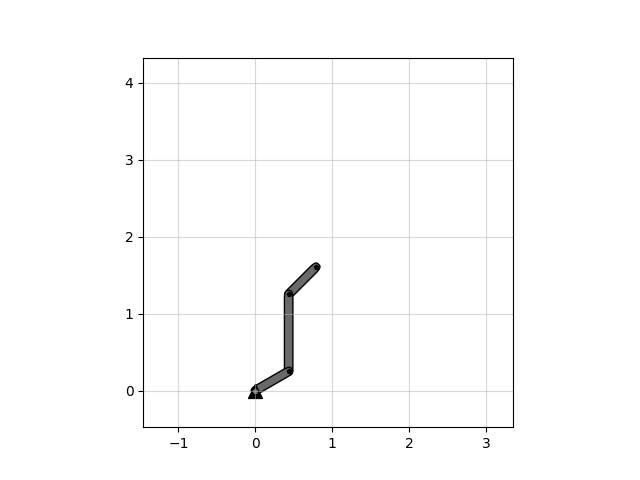
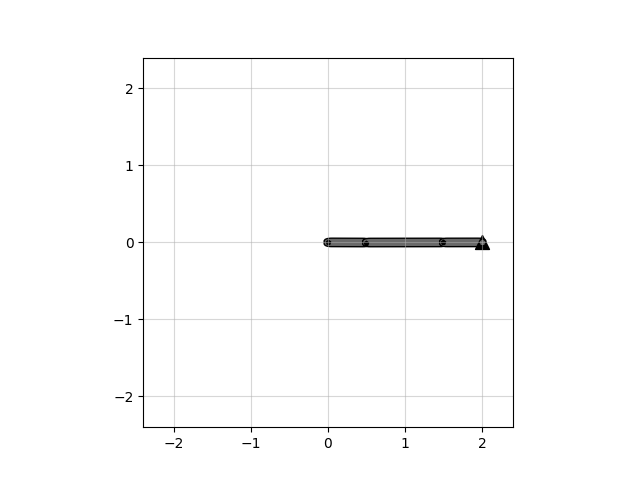
work on hw4

diff --git a/ws/hw4/ManipulatorSkeleton.cpp b/ws/hw4/ManipulatorSkeleton.cpp
@@ -6,6 +6,12 @@ MyManipulator2D::MyManipulator2D()
     : LinkManipulator2D({0.5, 1.0, 0.5}) 
 {}
 
+/*
+    MyManipulator2D::MyManipulator2D()
+        : LinkManipulator2D({1, 0.5, 1}) 
+    {}
+*/
+
 // Override this method for implementing forward kinematics
 Eigen::Vector2d MyManipulator2D::getJointLocation(const amp::ManipulatorState& state, uint32_t joint_index) const {
     // Implement forward kinematics to calculate the joint position given the manipulator state (angles)
@@ -51,7 +57,7 @@ Eigen::Vector2d MyManipulator2D::getJointLocation(const amp::ManipulatorState& s
         joint_positions.push_back(pos);
  
     }
-    std::reverse(joint_positions.begin(), joint_positions.end());
+    //std::reverse(joint_positions.begin(), joint_positions.end());
 
 
     //std::vector<Eigen::Vector2d> joint_positions = {Eigen::Vector2d(0.0, 0.0), Eigen::Vector2d(0.0, 1.0), Eigen::Vector2d(1.0, 1.0), Eigen::Vector2d(2.0,1.0)};
@@ -63,34 +69,107 @@ Eigen::Vector2d MyManipulator2D::getJointLocation(const amp::ManipulatorState& s
 amp::ManipulatorState MyManipulator2D::getConfigurationFromIK(const Eigen::Vector2d& end_effector_location) const {
     // Implement inverse kinematics here
     const std::vector<double>& linkLengths = getLinkLengths(); //get link lengths;
-    amp::ManipulatorState joint_angles;
+
+    std::cout <<"Num Links: " << nLinks() << std::endl;
+
+    // Print link lengths
+    std::cout << "Link lengths: ";
+    for (size_t i = 0; i < linkLengths.size(); ++i) {
+        std::cout << linkLengths[i] << " ";
+    }
+    std::cout << std::endl;
+
+    amp::ManipulatorState joint_angles(nLinks());
     joint_angles.setZero();
-    x = end_effector_location.x();
-    y = end_effector_location.y();
+    std::cout << "Joint angles: " << joint_angles.transpose() << " Num Joint angles: " << joint_angles.size() << std::endl;
+
+    double x = end_effector_location.x();
+    double y = end_effector_location.y();
+    std::cout <<"End Effector Location: " << end_effector_location.transpose() << std::endl;
     
     // If you have different implementations for 2/3/n link manipulators, you can separate them here
     if (nLinks() == 2) {
         double a1 = linkLengths[0]; // link length1
         double a2 = linkLengths[1]; // link length2
 
-        double c2 = (1/(2*a1*a2)) * ((x^2 + y^2) - (a1^2 + a2^2));
-        double s2Plus   = sqrt(1-c2^2);
-        double s2Minus  = -sqrt(1-c2^2);
-        double c1Plus   = (1/(x^2 + y^2)) * (x*(a1 + a2*c2) + y*a2*sqrt(1-c2^2));
-        double c1Minus  = (1/(x^2 + y^2)) * (x*(a1 + a2*c2) - y*a2*sqrt(1-c2^2));
-        double s1Plus   = (1/(x^2 + y^2)) * (y*(a1 + a2*c2) + x*a2*sqrt(1-c2^2));
-        double s1Minus  = (1/(x^2 + y^2)) * (y*(a1 + a2*c2) - x*a2*sqrt(1-c2^2));
+        double c2 = (1/(2*a1*a2)) * ((x*x + y*x) - (a1*a1 + a2*a1));
+        c2 = std::max(-1.0, std::min(1.0, c2)); // clamp
+        double s2Plus   = sqrt(1-c2*c2);
+        double s2Minus  = -sqrt(1-c2*c2);
+        double c1Plus   = (1/(x*x + y*y)) * (x*(a1 + a2*c2) + y*a2*sqrt(1-c2*c2));
+        double c1Minus  = (1/(x*x + y*y)) * (x*(a1 + a2*c2) - y*a2*sqrt(1-c2*c2));
+        double s1Plus   = (1/(x*x + y*y)) * (y*(a1 + a2*c2) + x*a2*sqrt(1-c2*c2));
+        double s1Minus  = (1/(x*x + y*y)) * (y*(a1 + a2*c2) - x*a2*sqrt(1-c2*c2));
 
         // prob need to play around with this
-        double theta1 = acos(c1Minus); 
-        double theta2 = acos(c2);
+        double theta2 = atan2(s2Minus, c2);
 
+        double theta1 = atan2(s1Minus,c1Minus);
 
+        joint_angles(0) = theta1;
+        joint_angles(1) = theta2;
+        
         return joint_angles;
     } else if (nLinks() == 3) {
 
+        // need to fix theta 1
+        double a1 = linkLengths[0];
+        double theta1 = M_PI/4; // fix at 45 deg
+        for(theta1 = 0; theta1 <= 2*M_PI; theta1 += 0.01) {
+
+            //std::cout << "Fixed theta 1 to: " << theta1 << std::endl;
+            // then recalc new end point in local reference frame
+        
+            double x_rel = x - a1 * cos(theta1);
+            double y_rel = y - a1 * sin(theta1);
+            double x_prime =  x_rel * cos(theta1) + y_rel * sin(theta1);
+            double y_prime = -x_rel * sin(theta1) + y_rel * cos(theta1);
+            
+            //std::cout << "x_prime: " << x_prime << " y_prime: " << y_prime << std::endl;
+            // then just use 2 link kinematics to calc theta 2,3
+            double a2 = linkLengths[1];
+            double a3 = linkLengths[2];
+
+            double c3 = (1/(2*a2*a3)) * ((x_prime*x_prime + y_prime*y_prime) - (a2*a2 + a3*a3));
+            c3 = std::max(-1.0, std::min(1.0, c3)); // clamp
+            double s3Plus   = sqrt(1-c3*c3);
+            double s3Minus  = -sqrt(1-c3*c3);
+            double c2Plus   = (1/(x_prime*x_prime + y_prime*y_prime)) * (x_prime*(a2 + a3*c3) + y_prime*a3*sqrt(1-c3*c3));
+            double c2Minus  = (1/(x_prime*x_prime + y_prime*y_prime)) * (x_prime*(a2 + a3*c3) - y_prime*a3*sqrt(1-c3*c3));
+            double s2Plus   = (1/(x_prime*x_prime + y_prime*y_prime)) * (y_prime*(a2 + a3*c3) + x_prime*a3*sqrt(1-c3*c3));
+            double s2Minus  = (1/(x_prime*x_prime + y_prime*y_prime)) * (y_prime*(a2 + a3*c3) - x_prime*a3*sqrt(1-c3*c3));
+
+            /*
+            std::cout << "c3: " << c3 << std::endl;
+            std::cout << "s3Plus: " << s3Plus << " | s3Minus: " << s3Minus << std::endl;
+
+            std::cout << "c2Plus: " << c2Plus << " | c2Minus: " << c2Minus << std::endl;
+            std::cout << "s2Plus: " << s2Plus << " | s2Minus: " << s2Minus << std::endl;
+            */
+            // prob need to play around with this
+            double theta3 = atan2(s3Minus,c3); 
+            double theta2 = atan2(s2Minus,c2Minus);
+
+            //std::cout << "Theta 2: " << theta2 << " Theta 3: " << theta3 << std::endl;
+
+            joint_angles(0) = theta1;
+            joint_angles(1) = theta2;
+            joint_angles(2) = theta3;
+            // calc joint3 pos
+            Eigen::Vector2d joint3Pos = getJointLocation(joint_angles, 2);
+            double epsilon = 1e-6;
+            double distFromGoal = (end_effector_location - joint3Pos).norm();
+            //std::cout << "Dist from goal: " << distFromGoal << std::endl;
+            if(distFromGoal <= epsilon) {
+                std::cout << "Joint3 Pos: " << joint3Pos.transpose() << std::endl;
+                return joint_angles;
+            }
+
+        }
+
         return joint_angles;
     } else {
+        // no clue
 
         return joint_angles;
     }

diff --git a/ws/hw4/main.cpp b/ws/hw4/main.cpp
@@ -22,13 +22,27 @@ int main(int argc, char** argv) {
     MyManipulator2D manipulator;
 
     // You can visualize your manipulator given an angle state like so:
+    Eigen::Vector2d goal;
+    goal << 2,0; // end effector position
+    amp::ManipulatorState test_state = manipulator.getConfigurationFromIK(goal);
+    std::cout << "Computed joint angles: ";
+    for (int i = 0; i < test_state.size(); ++i) {
+        std::cout << test_state(i) << " ";
+    }
+    std::cout << std::endl;
+
+    /*
     amp::ManipulatorState test_state;
     test_state.setZero();
     test_state.resize(3);           // make sure it has 3 elements
     test_state[0] = M_PI / 6;       // 45 degrees
     test_state[1] = M_PI / 3;
     test_state[2] = 7*M_PI / 4;
+    */
     //test_state[3] = 0;
+
+
+
 
     
     // The visualizer uses your implementation of forward kinematics to show the joint positions so you can use that to test your FK algorithm
@@ -47,6 +61,6 @@ int main(int argc, char** argv) {
     Visualizer::saveFigures();
 
     // Grade method
-    //amp::HW4::grade<MyManipulator2D>(cspace_constructor, "nonhuman.biologic@myspace.edu", argc, argv);
+    amp::HW4::grade<MyManipulator2D>(cspace_constructor, "nonhuman.biologic@myspace.edu", argc, argv);
     return 0;
 }
